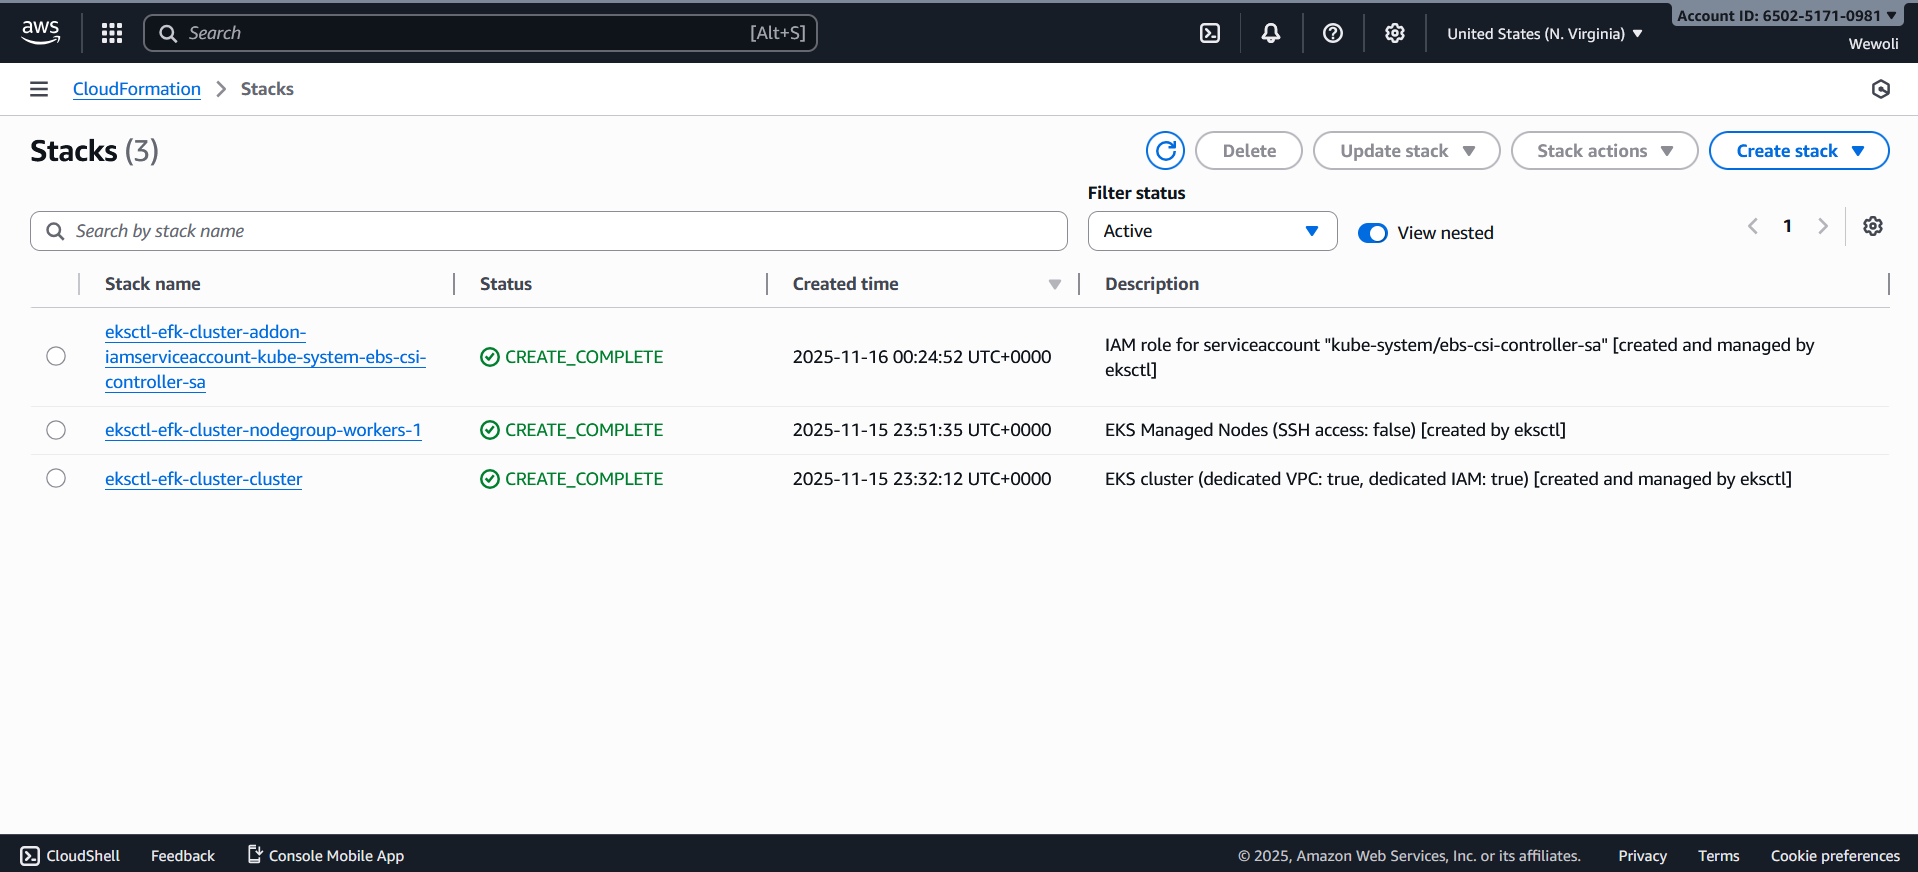
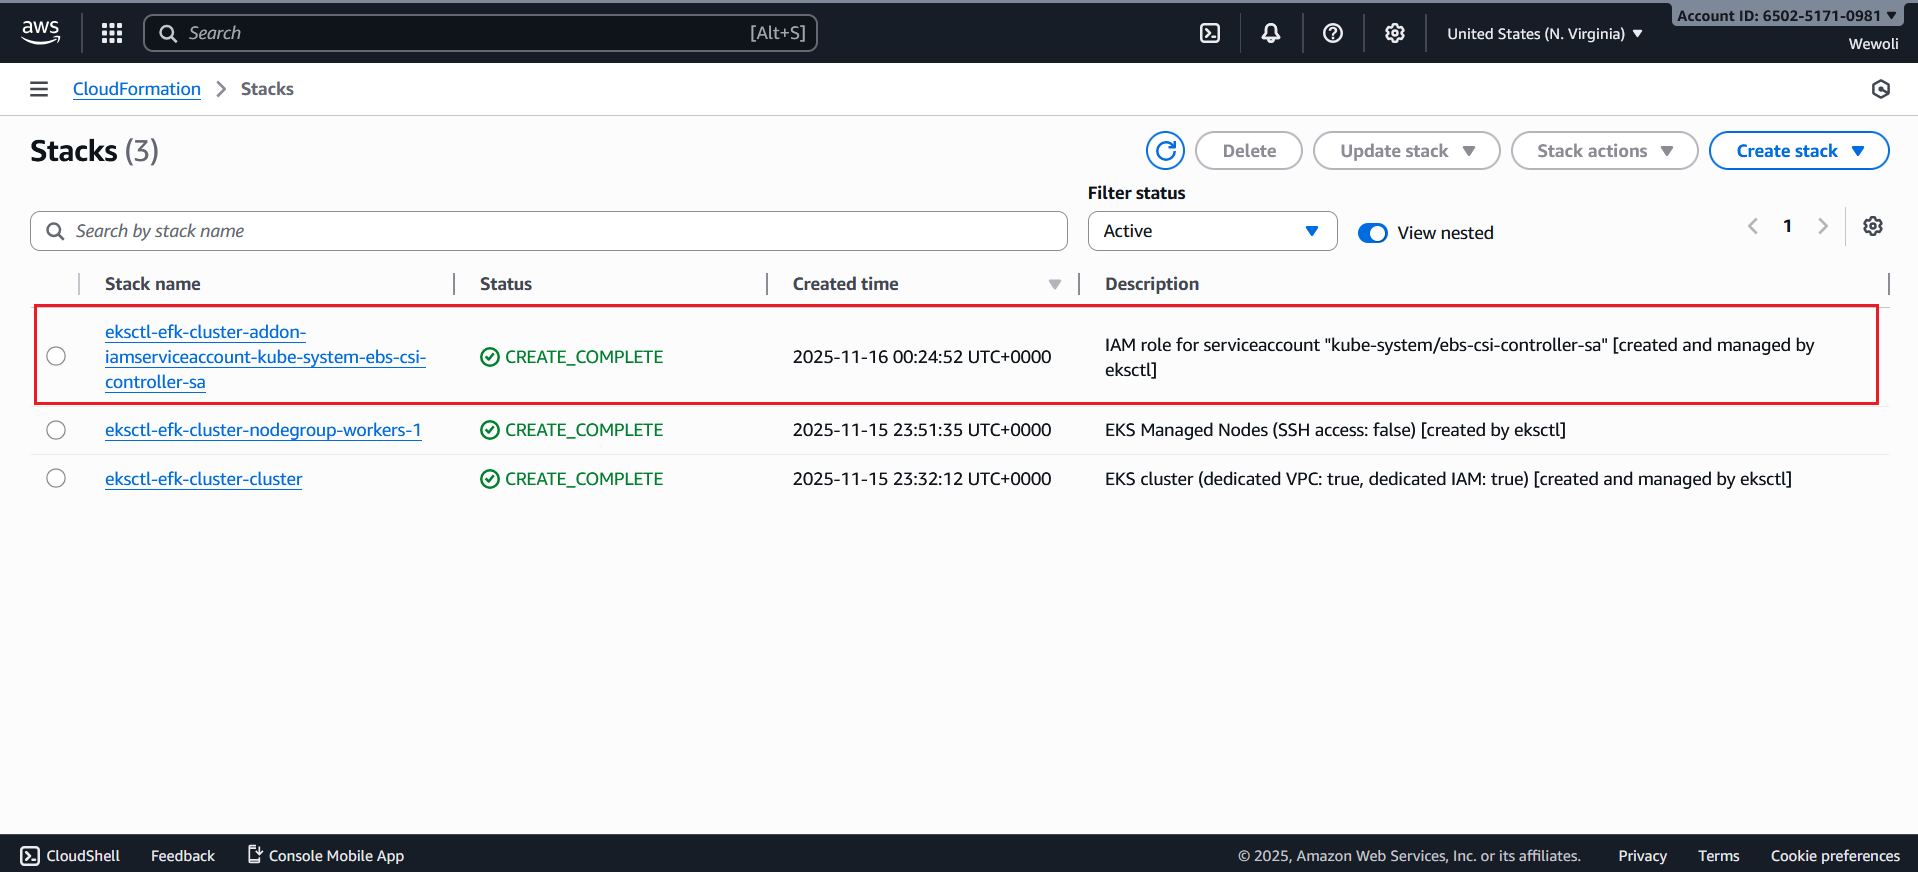
Update README with deployment instructions and expected CLI outputs; add new images for better visualization

Changed region(s): [[0.0308, 0.4335, 0.9844, 0.4644], [0.0308, 0.3406, 0.9844, 0.3716]]

diff --git a/README.md b/README.md
@@ -228,12 +228,12 @@ The following three applications will be deployed into the cluster:
 
 ### **Step 1: Deploy apps in the cluster**
 
-To deploy these application, a script  will automate this process, since the focus is on log management app deployment to K8S cluster. Navigate to the `apps` directory and run this command
+To deploy these application, a script  will automate this process, since the focus is on log management. Navigate to the `apps` directory and run this command
 
 ```bash
-  ../deploy_all_apps.sh
+  ./deploy_all_apps.sh
 ```
-This command will create a namespace called demo-apps and  deploy  all the apps in that namespace
+This command will create a namespace called demo-apps and  deploy  all the apps in that namespace. Yo can take a look at the script to better understand it. 
 
 ```bash
 ============================================================
@@ -318,7 +318,7 @@ In order for the **EKS cluster** to interact with the EBS volume, some initial c
    --approve
    ```
    
-
+Expected output:
 ```bash
 2025-11-16 00:24:51 [ℹ]  1 iamserviceaccount (kube-system/ebs-csi-controller-sa) was included (based on the include/exclude rules)
 2025-11-16 00:24:51 [!]  serviceaccounts in Kubernetes will not be created or modified, since the option --role-only is used
@@ -344,6 +344,7 @@ eksctl create addon --cluster efk-cluster \
 --name aws-ebs-csi-driver --version latest \
 --service-account-role-arn $ARN --force
 ```
+Expected CLI output:
 ```bash
 2025-11-16 00:31:55 [ℹ]  Kubernetes version "1.32" in use by cluster "efk-cluster"
 2025-11-16 00:31:56 [ℹ]  IRSA is set for "aws-ebs-csi-driver" addon; will use this to configure IAM permissions
@@ -379,7 +380,7 @@ helm install elasticsearch \
  --set persistence.labels.enabled=true elastic/elasticsearch -n logging
 ```
 
-Expected output:
+Expected CLI output:
 
 ```bash
 NAME: elasticsearch
@@ -408,14 +409,13 @@ kubectl get secrets --namespace=logging elasticsearch-master-credentials -ojsonp
 kubectl get secrets --namespace=logging elasticsearch-master-credentials -ojsonpath='{.data.password}' | base64 -d
 ```
 
-
-
 ### Deploy Kibana in K8S cluster
-Since kibana is part of 
- **Step 1: Install the   chart**
+  **Step 1: Install the   chart**
  ```bash
  helm install kibana --set service.type=LoadBalancer elastic/kibana -n logging     
  ```
+Expected CLI output:
+
  ```bash
  NAME: kibana
 LAST DEPLOYED: Sun Nov 16 00:47:30 2025
@@ -448,7 +448,7 @@ helm search repo fluent
 ```bash
 helm install fluent-bit fluent/fluent-bit -f efk/fluentbit-values.yaml -n logging
 ```
-
+Expected CLI output:
 ```bash
 NAME: fluent-bit
 LAST DEPLOYED: Sun Nov 16 00:59:26 2025
@@ -463,6 +463,9 @@ kubectl --namespace logging port-forward $POD_NAME 2020:2020
 curl http://127.0.0.1:2020
 ```
 For more details ablout installing Fluent bit in K8S cluster refere to [Download and install Fluent Bit](https://docs.fluentbit.io/manual/installation/downloads/kubernetes#fluent-bit.conf)
+
+
+
 ### Verification
 verify that all the EFK stack pods are running 
 ```bash
@@ -492,5 +495,6 @@ Copy the load balancer url to your browser and append the port 5601 to it.
 ```bash
 acbc27c5d340f4065a3b14d34c4d42d6-1178792962.us-east-1.elb.amazonaws.com:5601
 ```
+The kubana login page will appear login with the username and password you got from Elastic search. 
 ## Cleanup 
 ## Conclusion 
